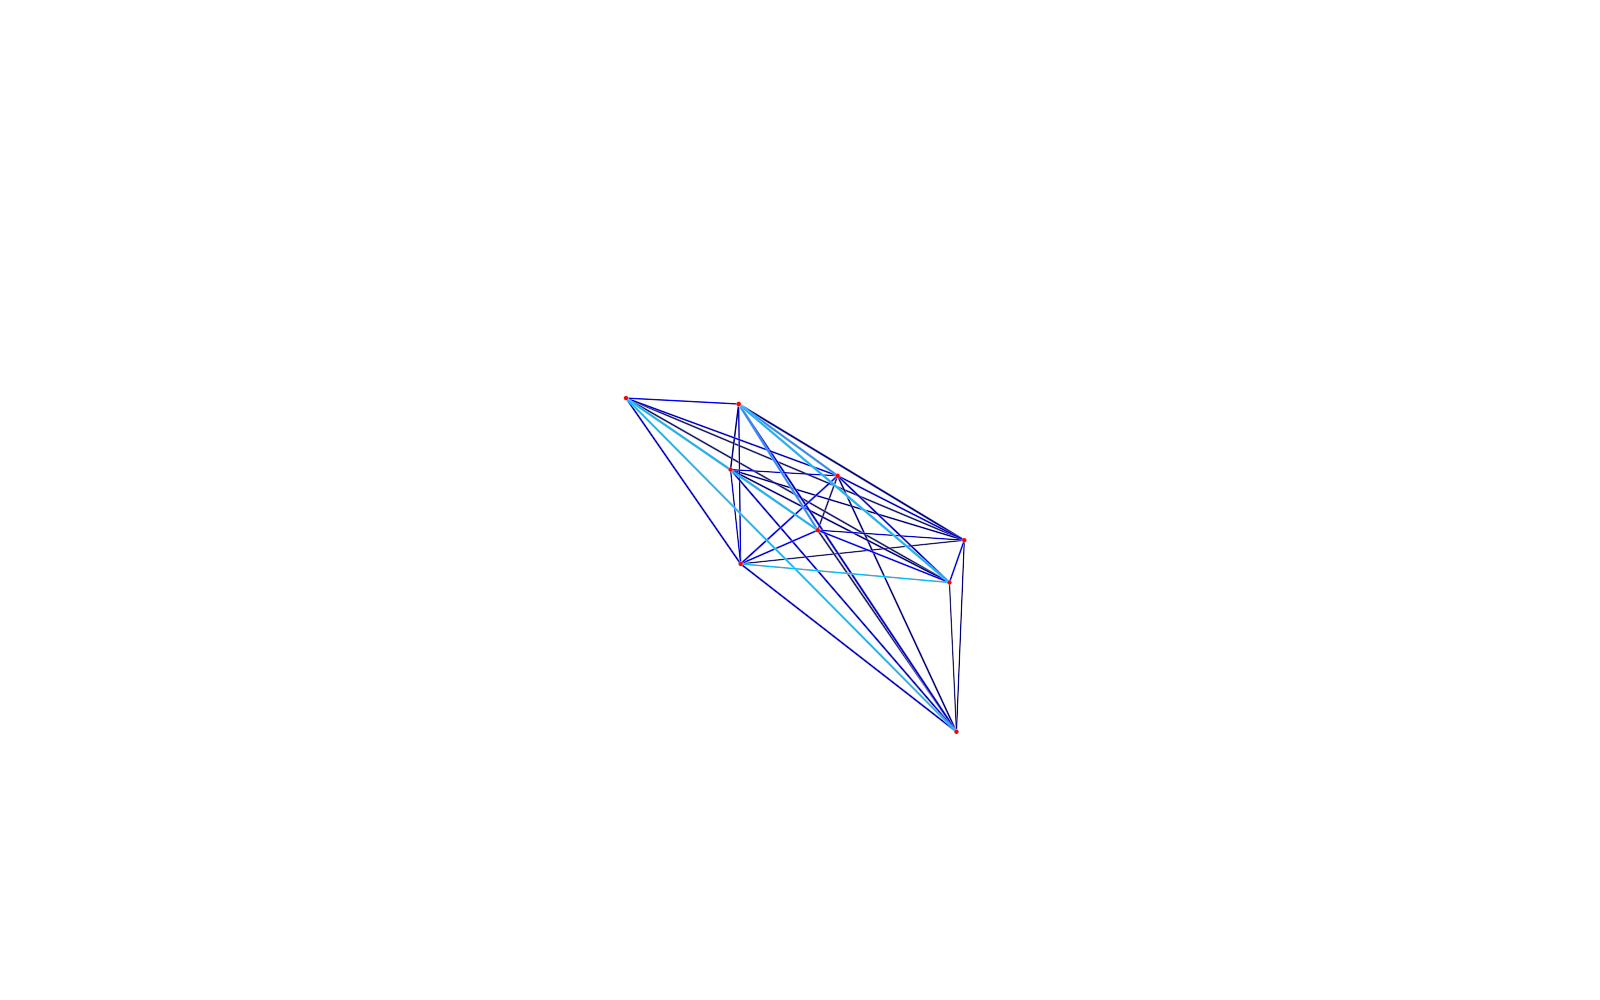
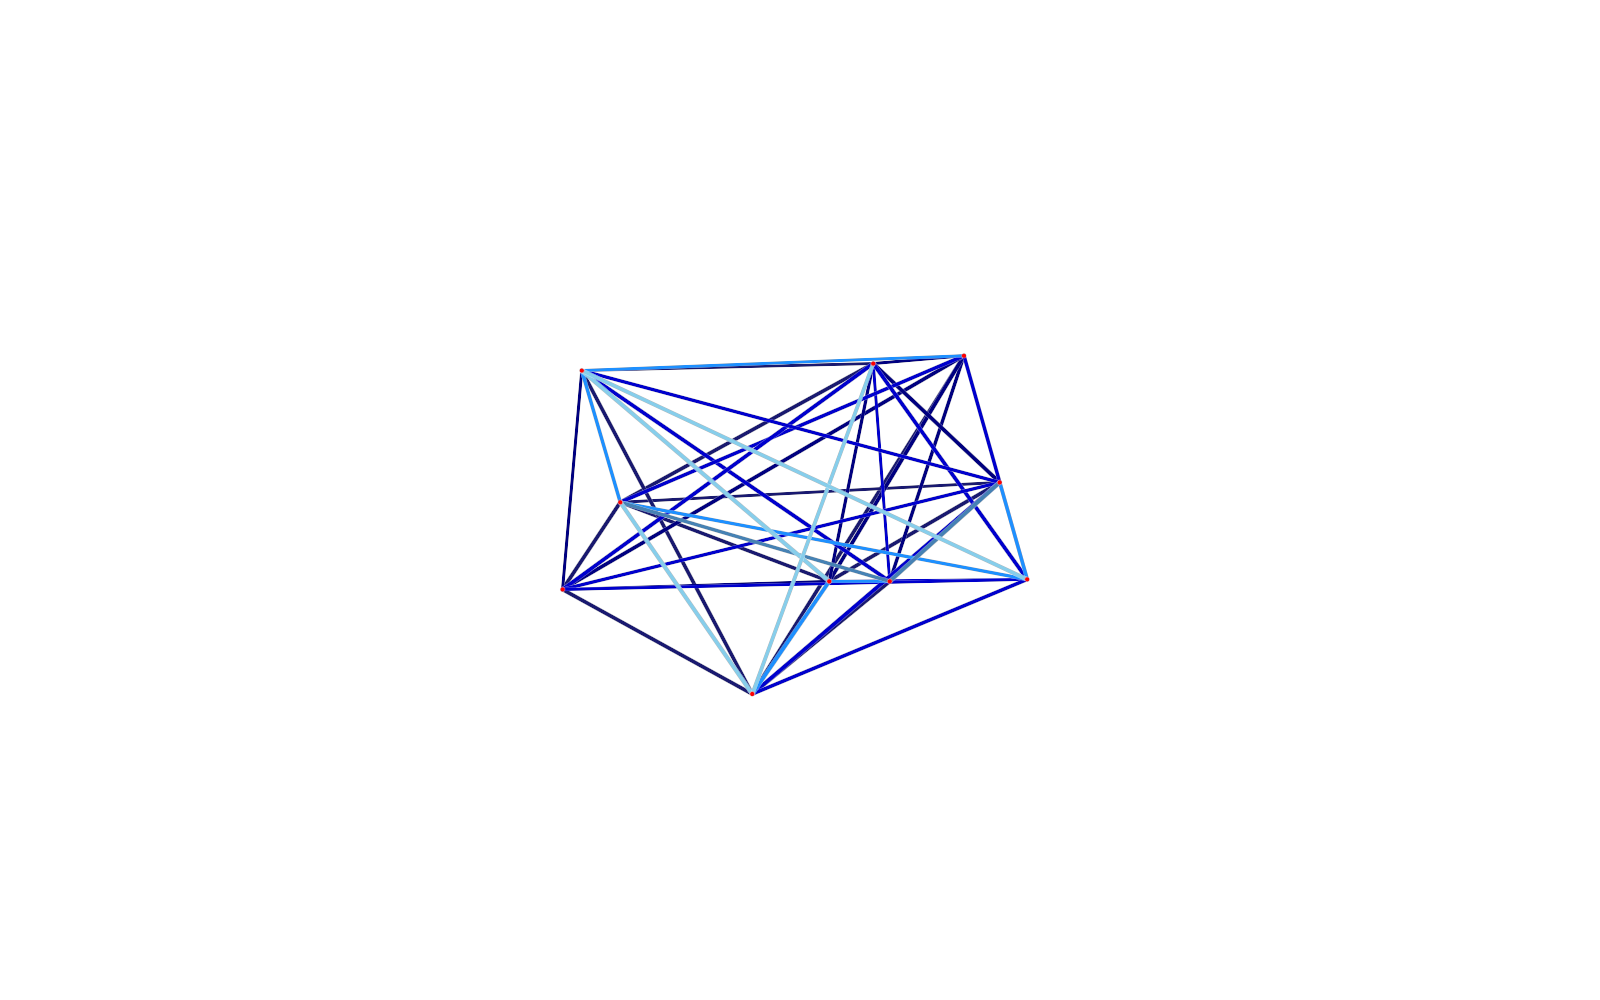
new figs

Changed region(s): [[0.3438, 0.341, 0.6562, 0.713], [0.375, 0.62, 0.4062, 0.651]]

diff --git a/Figs_for_poster/plot_connectivity_obj.py b/Figs_for_poster/plot_connectivity_obj.py
@@ -10,7 +10,7 @@ from visbrain.objects import ConnectObj, SceneObj, SourceObj, BrainObj
 from visbrain.io import download_file
 
 #CHOOSE NETWORK (change according to which fig you want to generate)
-NETWORK = 3
+NETWORK = 1
 EST = 3 #1: correlation, 2: pli, 3: pli+corr
 
 # Download data
@@ -83,8 +83,8 @@ elif NETWORK ==3:
 # Create the scene with a black background
 
 #azimuth rotation on horizontal axis
-CAM_STATE = dict(azimuth=90,        # azimuth angle
-                 elevation=0,     # elevation angle
+CAM_STATE = dict(azimuth=0,        # azimuth angle
+                 elevation=90,     # elevation angle
                  scale_factor=180  # distance to the camera
                  )
 # top view - 0, 90, 180
@@ -103,6 +103,8 @@ KW = dict(title_size=14., zoom=1.2)
 edges = edges_cv_b
 print(edges)
 bndries = [0.5, 2,4, 6, 8, 9, 10]
+width  = 3
+
 
 ###############################################################################
 # 1. Target Network
@@ -142,7 +144,6 @@ bndries = [0.5, 2,4, 6, 8, 9, 10]
 
 # ################Different colors for diff strengths
 # # Define the connectivity object
-# width  = 1.5
 # if select_0.any():
 # 	c_default = ConnectObj('default', nodes, edges, select=select_0, line_width=width, 
 # 		antialias =True, custom_colors = {None: "midnightblue"})
@@ -160,18 +161,18 @@ bndries = [0.5, 2,4, 6, 8, 9, 10]
 
 # if select_3.any():
 # 	c_default3 = ConnectObj('default', nodes, edges, select=select_3, line_width=width, 
-# 		antialias =True, custom_colors = {None: "blue"})
+# 		antialias =True, custom_colors = {None: "dodgerblue"})
 # 	sc.add_to_subplot(c_default3, row=0, col=0, zoom=0.1)
 
 
 # if select_4.any():
 # 	c_default4 = ConnectObj('default', nodes, edges, select=select_4, line_width=width, 
-# 		antialias =True, custom_colors = {None: "dodgerblue"})
+# 		antialias =True, custom_colors = {None: "steelblue"})
 # 	sc.add_to_subplot(c_default4, row=0, col=0, zoom=0.1)
 
 # if select_5.any():
 # 	c_default5 = ConnectObj('default', nodes, edges, select=select_5, line_width=width, 
-# 		antialias =True, custom_colors = {None: "deepskyblue"})
+# 		antialias =True, custom_colors = {None: "skyblue"})
 # 	sc.add_to_subplot(c_default5, row=0, col=0, zoom=0.1)
 
 # # if select_6.any():
@@ -247,7 +248,6 @@ select_5 = edges >= bndries[5]
 
 ################Different colors for diff strengths
 # Define the connectivity object
-width  = 1.5
 if select_0.any():
 	c_default = ConnectObj('default', nodes, edges, select=select_0, line_width=width, 
 		antialias =True, custom_colors = {None: "midnightblue"})
@@ -265,18 +265,18 @@ if select_2.any():
 
 if select_3.any():
 	c_default3 = ConnectObj('default', nodes, edges, select=select_3, line_width=width, 
-		antialias =True, custom_colors = {None: "blue"})
+		antialias =True, custom_colors = {None: "dodgerblue"})
 	sc.add_to_subplot(c_default3, row=0, col=0, zoom=0.1)
 
 
 if select_4.any():
 	c_default4 = ConnectObj('default', nodes, edges, select=select_4, line_width=width, 
-		antialias =True, custom_colors = {None: "dodgerblue"})
+		antialias =True, custom_colors = {None: "steelblue"})
 	sc.add_to_subplot(c_default4, row=0, col=0, zoom=0.1)
 
 if select_5.any():
 	c_default5 = ConnectObj('default', nodes, edges, select=select_5, line_width=width, 
-		antialias =True, custom_colors = {None: "deepskyblue"})
+		antialias =True, custom_colors = {None: "skyblue"})
 	sc.add_to_subplot(c_default5, row=0, col=0, zoom=0.1)
 
 # if select_6.any():
